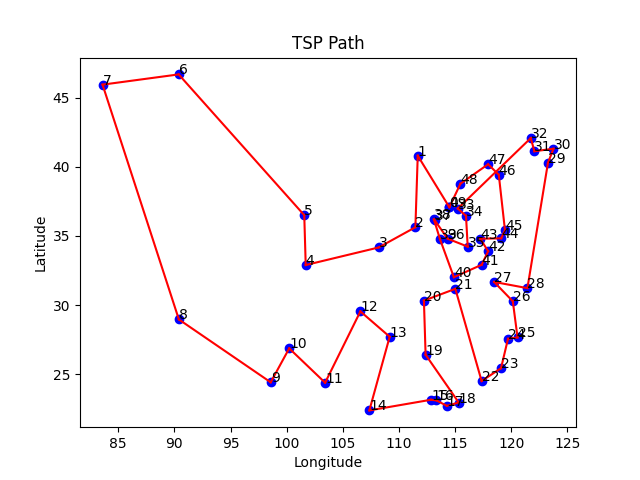
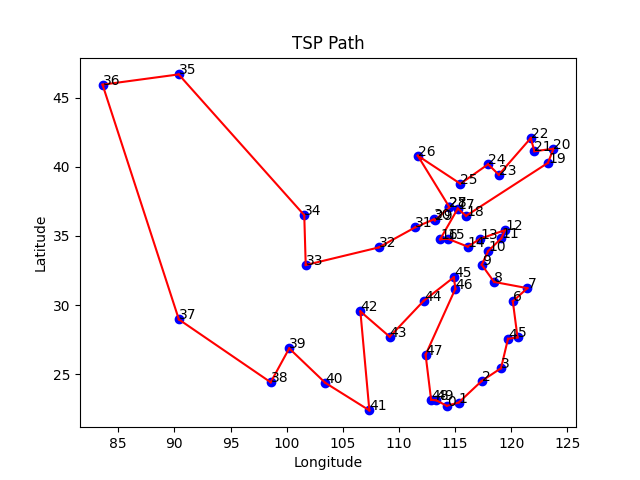
update: GA dynamic draw &  some tiny improvements

diff --git a/heuristic/GA/example_tsp.py b/heuristic/GA/example_tsp.py
@@ -30,6 +30,8 @@ class CityTSP(TSP):
         self.dis_matrix = torch.tensor(pairwise_distances(self.pos, metric='euclidean'), dtype=torch.float32, device=device)
         self.city_list = [str(x).strip() for x in data[:size, 0]]
         self.n = len(self.city_list)
+        self.best_val = float('inf')
+        self.best_path = None
 
     def get_city_name(self, idx):
         assert 0 <= idx < len(self.city_list)
@@ -53,8 +55,43 @@ class CityTSP(TSP):
         for i, city_idx in enumerate(path):
             ax.text(self.pos[city_idx][0], self.pos[city_idx][1], str(i))
 
-        # plt.legend()
         plt.show()
+        
+    def dynamic_draw_path(self, path, best_val):
+        """
+        动态更新当前最优TSP路径显示，仅在最优值改善时调用。
+        """
+        if best_val >= self.best_val:
+            return 
+        
+        self.best_val = best_val
+        self.best_path = path
+
+        plt.ion()  # 打开交互模式
+        if not hasattr(self, '_dyn_fig'):
+            self._dyn_fig, self._dyn_ax = plt.subplots()
+        ax = self._dyn_ax
+        ax.cla()  # 清空当前坐标轴内容
+        
+        ax.set_title("TSP Path  (Distance: {:.2f})".format(best_val))
+        ax.set_xlabel("Longitude")
+        ax.set_ylabel("Latitude")
+        
+        # 绘制城市点
+        ax.scatter(self.pos[:, 0], self.pos[:, 1], c='blue')
+
+        # 绘制路径
+        for i in range(len(path)):
+            start_city = self.pos[path[i]]
+            end_city = self.pos[path[(i + 1) % len(path)]]
+            ax.plot([start_city[0], end_city[0]], [start_city[1], end_city[1]], c='red')
+        
+        # 添加序号标签
+        for i, city_idx in enumerate(path):
+            ax.text(self.pos[city_idx][0], self.pos[city_idx][1], str(i), fontsize=8, ha='right')
+        
+        self._dyn_fig.canvas.flush_events()
+        plt.pause(0.001)
 
 
 class HardCityTSP(CityTSP):
@@ -68,36 +105,49 @@ class HardCityTSP(CityTSP):
         self.city_list = ['-'.join(x.strip() for x in row) for row in data[indices, :3].astype(str)]
         self.n = len(self.city_list)
 
+        self.best_val = float('inf')
+        self.best_path = None
 
-def GA(domain: PermutationDomain, fun_fitness, num=50, n_step=50):
+
+def GA(tsp: CityTSP, num=50, n_step=50, dynamic_draw=False):
+    fun_fitness = tsp.cal_distance
+    domain = PermutationDomain(n=tsp.n, device=device)
     group = domain.gen(num)
     n_city = domain.n
+    dynamic_draw_fn = tsp.dynamic_draw_path 
+
+
     with tqdm(total=n_step, desc='GA') as pbar:
         for n in range(1, n_step + 1):
             fitness = fun_fitness(group)
             best_idx = torch.argmin(fitness)
             best = group[best_idx].clone()
+            best_val = fitness.min().item()
+            pbar.set_postfix({'best_val': best_val})
+
+            if dynamic_draw:
+                dynamic_draw_fn(best.clone().cpu().numpy(), best_val)
 
             group = domain.mutate(group, p=0.6)
             group = domain.cross(group, k=math.floor(0.8 * n_city**(1.0 - n / n_step)) + 1, p=0.6)
             worst_idx = torch.argmax(fitness)
             group[worst_idx] = best
 
-            pbar.set_postfix({'best_val': fitness.min().item()})
             pbar.update(1)
 
+        if dynamic_draw: plt.ioff()
+        # 最后一次更新保证返回最优解
         fitness = fun_fitness(group)
         best_idx = torch.argmin(fitness)
         best = group[best_idx]
-        best_val = fitness.min().item()
-        pbar.set_postfix({'best_val': best_val})
-    return best.cpu().numpy(), best_val
+        final_best_val = fitness.min().item()
+        pbar.set_postfix({'best_val': final_best_val})
+    return best.cpu().numpy(), final_best_val
 
 
 def test_tsp():
     tsp = CityTSP(os.path.join(os.path.dirname(os.path.abspath(__file__)), 'data', "china.csv"))
-    domain = PermutationDomain(n=tsp.n, device=device)
-    best, best_val = GA(domain, tsp.cal_distance, num=10000, n_step=5000)
+    best, best_val = GA(tsp, num=10000, n_step=5000, dynamic_draw=True)
     print("Best Path:", best)
     print("Best Distance:", best_val)
     tsp.draw_path(best)
@@ -105,8 +155,7 @@ def test_tsp():
 
 def hard_tsp(size=20):
     tsp = HardCityTSP(os.path.join(os.path.dirname(os.path.abspath(__file__)), 'data', "china_main_citys.csv"), size=size)
-    domain = PermutationDomain(n=tsp.n, device=device)
-    best, best_val = GA(domain, tsp.cal_distance, num=size * 1000, n_step=5*size**2)
+    best, best_val = GA(tsp, num=size * 1000, n_step=5 * size**2, dynamic_draw=True)
     print("Best Path:", best)
     print("Best Distance:", best_val)
     tsp.draw_path(best)
@@ -115,5 +164,6 @@ def hard_tsp(size=20):
 if __name__ == '__main__':
     SEED = 42
     torch.manual_seed(SEED)
+    # test
     # test_tsp()
     hard_tsp(size=50)
